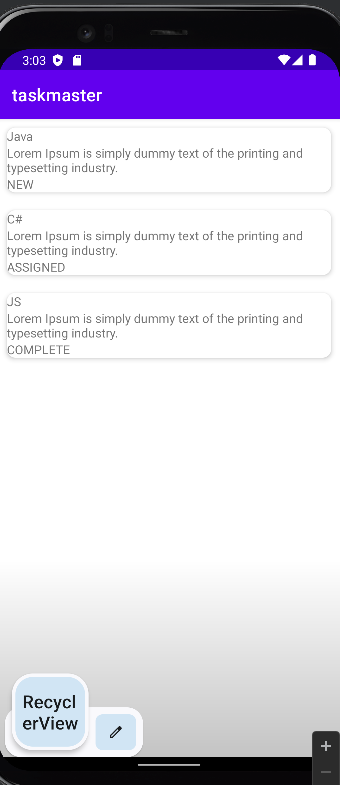
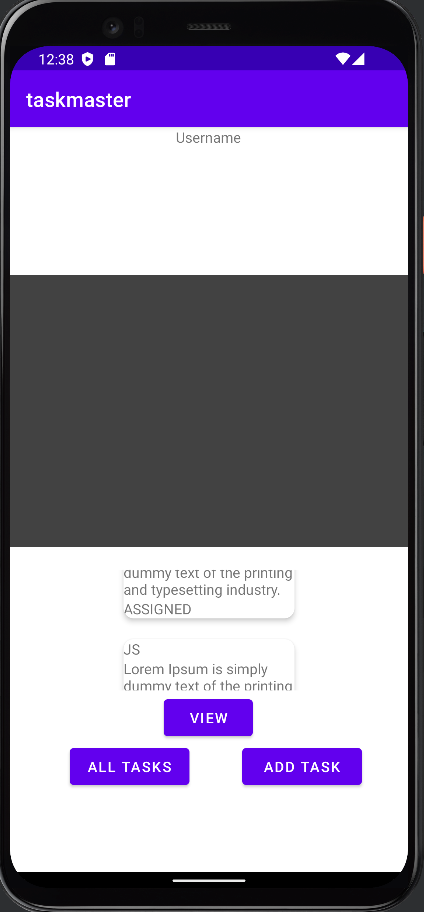
recycle view in main activity

diff --git a/app/src/main/java/com/taskmaster/MainActivity.java b/app/src/main/java/com/taskmaster/MainActivity.java
@@ -13,10 +13,7 @@ import android.util.Log;
 import android.view.Menu;
 import android.view.MenuItem;
 import android.view.View;
-import android.widget.AdapterView;
-import android.widget.ArrayAdapter;
 import android.widget.Button;
-import android.widget.ListView;
 import android.widget.Spinner;
 import android.widget.TextView;
 import android.widget.Toast;
@@ -25,12 +22,11 @@ import com.taskmaster.data.TaskModel;
 
 import java.util.ArrayList;
 import java.util.List;
-import java.util.Set;
 
 public class MainActivity extends AppCompatActivity {
 
 
-    List<TaskModel> task = new ArrayList<>();
+    List<TaskModel> taskData = new ArrayList<>();
 
     private static final String TAG = MainActivity.class.getSimpleName();
 
@@ -64,11 +60,28 @@ public class MainActivity extends AppCompatActivity {
 
     @Override
     protected void onCreate(Bundle savedInstanceState) {
-
         super.onCreate(savedInstanceState);
-
         setContentView(R.layout.activity_main);
         Log.i(TAG, "onCreate: called");
+
+        initialiseTaskData();
+
+        RecyclerView recyclerView = findViewById(R.id.recycler_view);
+        CustomRecyclerViewAdapter  customRecyclerViewAdapter = new CustomRecyclerViewAdapter(taskData,position -> {
+
+            Intent intent = new Intent (getApplicationContext(),taskDetails.class);
+
+            intent.putExtra("Title",taskData.get(position).getTitle());
+            intent.putExtra("Body",taskData.get(position).getBody());
+            intent.putExtra("State",taskData.get(position).getState());
+            startActivity(intent);
+        });
+
+        recyclerView.setAdapter(customRecyclerViewAdapter);
+
+        recyclerView.setHasFixedSize(true);
+
+        recyclerView.setLayoutManager(new LinearLayoutManager(this));
 
         Button addTask = findViewById(R.id.Add_task);
         Button allTasks = findViewById(R.id.All_Tasks);
@@ -87,22 +100,7 @@ public class MainActivity extends AppCompatActivity {
         });
 
 
-//        initialiseTaskData();
-//
-//        RecyclerView recyclerView = findViewById(R.id.recycler_view);
-//
-//        CustomRecyclerViewAdapter customRecyclerViewAdapter = new CustomRecyclerViewAdapter(task, new CustomRecyclerViewAdapter.CustomClickListener() {
-//            @Override
-//            public void onTaskClickListener(int position) {
-//
-//            }
-//        });
-//
-//        recyclerView.setAdapter(customRecyclerViewAdapter);
-//
-//        recyclerView.setHasFixedSize(true);
-//
-//        recyclerView.setLayoutManager(new LinearLayoutManager(this));
+
     }
 
     @Override
@@ -132,10 +130,13 @@ public class MainActivity extends AppCompatActivity {
     }
 
     private void goToTaskDetails(){
-        Intent taskDetailsIntent = new Intent(this,TaskRescylerViewActivity.class);
+        Intent taskDetailsIntent = new Intent(this,taskDetails.class);
 
         String task = taskSelector.getSelectedItem().toString();
-        taskDetailsIntent.putExtra("title",task );
+        taskDetailsIntent.putExtra("Title",task );
+        taskDetailsIntent.putExtra("Body","Lorem Ipsum is simply dummy text of the printing and typesetting industry.");
+        taskDetailsIntent.putExtra("State","done");
+
         startActivity(taskDetailsIntent);
     }
 
@@ -161,7 +162,7 @@ public class MainActivity extends AppCompatActivity {
     protected void onResume() {
         Log.i(TAG, "onResume: called - The App is VISIBLE");
         super.onResume();
-        setUsername();
+//        setUsername();
     }
 
     @Override
@@ -182,10 +183,10 @@ public class MainActivity extends AppCompatActivity {
         Log.i(TAG, "onStop: called");
     }
 
-    private void initialiseTaskData(){
-        task.add(new TaskModel("Java","Lorem Ipsum is simply dummy text of the printing and typesetting industry.", TaskModel.State.NEW.toString()));
-        task.add(new TaskModel("C#","Lorem Ipsum is simply dummy text of the printing and typesetting industry.",TaskModel.State.ASSIGNED.toString()));
-        task.add(new TaskModel("JS","Lorem Ipsum is simply dummy text of the printing and typesetting industry.",TaskModel.State.COMPLETE.toString()));
+    public void initialiseTaskData(){
+        taskData.add(new TaskModel("Java","Lorem Ipsum is simply dummy text of the printing and typesetting industry.", TaskModel.State.NEW.toString()));
+        taskData.add(new TaskModel("C#","Lorem Ipsum is simply dummy text of the printing and typesetting industry.",TaskModel.State.ASSIGNED.toString()));
+        taskData.add(new TaskModel("JS","Lorem Ipsum is simply dummy text of the printing and typesetting industry.",TaskModel.State.COMPLETE.toString()));
     }
 
 }

diff --git a/app/src/main/java/com/taskmaster/TaskRecyclerViewActivity.java b/app/src/main/java/com/taskmaster/TaskRecyclerViewActivity.java
@@ -4,6 +4,7 @@ import androidx.appcompat.app.AppCompatActivity;
 import androidx.recyclerview.widget.LinearLayoutManager;
 import androidx.recyclerview.widget.RecyclerView;
 
+import android.content.Intent;
 import android.os.Bundle;
 import android.widget.Toast;
 
@@ -12,7 +13,7 @@ import com.taskmaster.data.TaskModel;
 import java.util.ArrayList;
 import java.util.List;
 
-public class TaskRescylerViewActivity extends AppCompatActivity {
+public class TaskRecyclerViewActivity extends AppCompatActivity {
     List<TaskModel> taskModelsList = new ArrayList<>();
     @Override
     protected void onCreate(Bundle savedInstanceState) {
@@ -26,14 +27,10 @@ public class TaskRescylerViewActivity extends AppCompatActivity {
 
         // create an adapter -> CustomRecyclerViewAdapter
 
-        CustomRecyclerViewAdapter customRecyclerViewAdapter = new CustomRecyclerViewAdapter(taskModelsList, new CustomRecyclerViewAdapter.CustomClickListener() {
-            @Override
-            public void onTaskClickListener(int position) {
-                Toast.makeText(TaskRescylerViewActivity.this,
-                        "the item clicked" + taskModelsList.get(position).getTitle(),
-                        Toast.LENGTH_SHORT).show();
-            }
+        CustomRecyclerViewAdapter customRecyclerViewAdapter = new CustomRecyclerViewAdapter(taskModelsList,position -> {
+            startActivity(new Intent(getApplicationContext(),taskDetails.class));
         });
+
 
         // set adapter on recycler view
         recyclerView.setAdapter(customRecyclerViewAdapter);

diff --git a/app/src/main/java/com/taskmaster/CustomRecyclerViewAdapter.java b/app/src/main/java/com/taskmaster/CustomRecyclerViewAdapter.java
@@ -40,7 +40,7 @@ public class CustomRecyclerViewAdapter extends RecyclerView.Adapter<CustomRecycl
     public void onBindViewHolder(@NonNull CustomViewHolder holder, int position) {
         holder.title.setText(taskData.get(position).getTitle());
         holder.description.setText(taskData.get(position).getBody());
-        holder.state.setText(taskData.get(position).getState().toString());
+        holder.state.setText(taskData.get(position).getState());
     }
 
     @Override
@@ -64,9 +64,15 @@ public class CustomRecyclerViewAdapter extends RecyclerView.Adapter<CustomRecycl
             description = itemView.findViewById(R.id.description);
             state = itemView.findViewById(R.id.state);
 
-            itemView.setOnClickListener(view -> {
-                listener.onTaskClickListener(getAdapterPosition());
-
+//            itemView.setOnClickListener(view -> {
+//                listener.onTaskClickListener(getAdapterPosition());
+//
+//            });
+            title.setOnClickListener(new View.OnClickListener() {
+                @Override
+                public void onClick(View view) {
+                    listener.onTaskClickListener(getAdapterPosition());
+                }
             });
         }
 

diff --git a/app/src/main/java/com/taskmaster/taskDetails.java b/app/src/main/java/com/taskmaster/taskDetails.java
@@ -19,7 +19,9 @@ public class taskDetails extends AppCompatActivity {
         super.onCreate(savedInstanceState);
         setContentView(R.layout.activity_task_details);
 
-        String getTaskTitle = getIntent().getStringExtra("title");
+        String getTaskTitle = getIntent().getStringExtra("Title");
+        String getTaskBody = getIntent().getStringExtra("Body");
+        String getTaskState = getIntent().getStringExtra("State");
 
         TextView title = findViewById(R.id.Title_taskDetails);
         TextView description = findViewById(R.id.Description_TaskDetails);
@@ -28,8 +30,8 @@ public class taskDetails extends AppCompatActivity {
 
 
         title.setText(getTaskTitle);
-        description.setText("Lorem Ipsum is simply dummy text of the printing and typesetting industry. Lorem Ipsum has been the industry's standard dummy text ever since the 1500s, when an unknown printer took a galley of type and scrambled it to make a type specimen book. It has survived not only five centuries, but also the leap into electronic typesetting, remaining essentially unchanged. ");
-        state.setText("done");
+        description.setText(getTaskBody);
+        state.setText(getTaskState);
 
 
 
